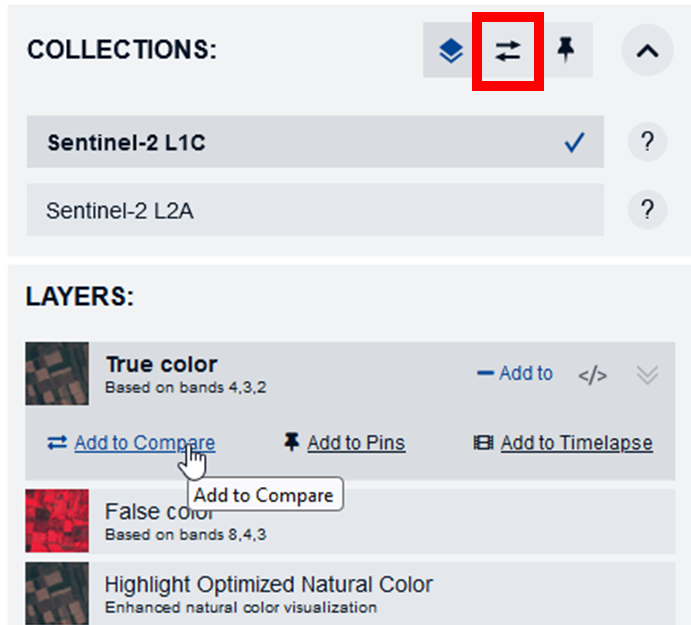
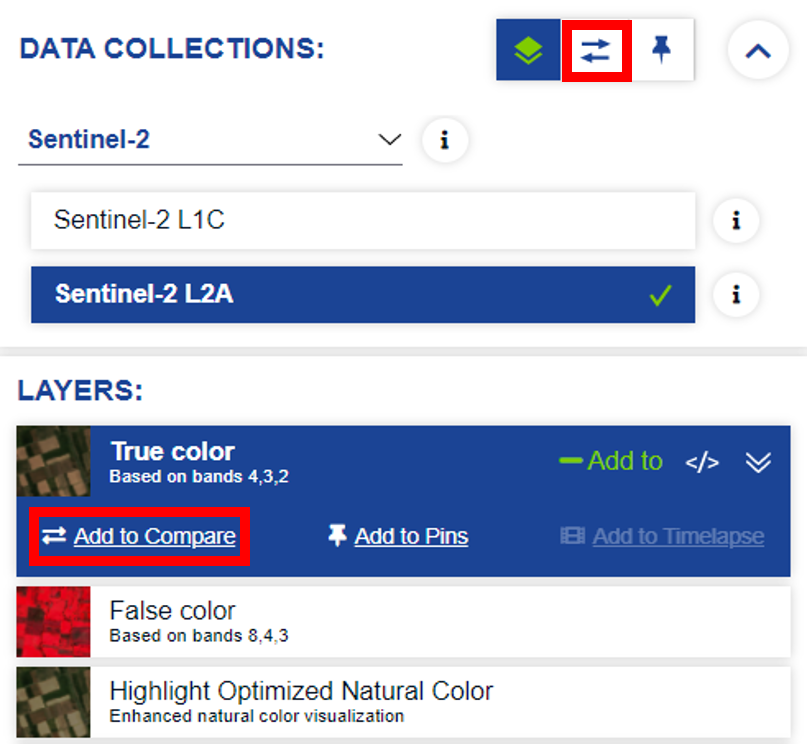
Updated the user guide and replaced screenshots

diff --git a/Applications/Browser.md b/Applications/Browser.md
@@ -49,13 +49,34 @@ Fig 3: *Custom* Layers option with *Composite Index and Custom* script highlight
 
 Here you can create a custom *R/G/B* composite or _Index_ (band ratio, normalized difference index) by dragging and dropping the Sentinel-2 bands into the appropriate circles or use the _Custom script_ functionality to insert a piece of JavaScript code.
 
+#### Changing the Data Collection
+
+You can switch visualizing between different data collections by clicking on the arrow next to the Data Collections section in the Visualization tab. Once you click on the arrow as seen in Fig. 4, you will be able to see a drop-down menu with a list of the satellite data that is available. Let us try to visualize Sentinel-3 data of the same location and date as that of the Sentinel-2 data in section 2.1.  
+1.	Click on the drop-down arrow on the right next to Pins icon. 
+2.	Click on the drop-down arrow next to Sentinel-2 and select Sentinel-3.
+3.	You can select the product you want to visualize. To visualize the Brightness temperature, select Sentinel-3 SLSTR L1B. You can see the predefined layers that can be visualized and click on the green button to Show latest date.
+
+At the moment, the Data Collections available for visualization are Sentinel-2 (L1C and L2A), Sentinel-3 (OLCI Level-1 EFT, SLSTR Level-1 RBT) and Sentinel-5P.
+
+<img src="../_images/DataCollection.png" width="450">
+
+Fig 4: Changing *Data Collection* from *Visualization* tab directly
+
 #### Comparing Visualizations
 
 To compare two (or more) visualizations you must add them to the compare panel. You can add a visualization to the compare panel by clicking on the *Add to compare* button in each visualization layer *(see Fig. 4)*. When you have added all the layers you want to compare to the compare panel, you can switch to it by clicking on the compare icon ( ![compare](../_images/icons/CompareIcon.png) ). In the compare panel you can choose between a *Split* and an *Opacity* mode. With the *Split* mode you can compare two images side by side. With the *Opacity* mode you can compare two (or more) visualizations on top of each other.
 
 <img src="../_images/AddIcon.png" width="350">
 
-Fig 4: *Add to compare* and compare icon
+Fig 5: *Add to compare* and compare icon
+
+#### Saving Pins
+
+To save a visualization for future viewing, you can save it as a pin by clicking on ( ![addto](../_images/icons/AddTo.png)) next to the Layer name and clicking on *Add to Pins*. You can find the saved pins by clicking on the ( ![pin](../_images/icons/PinIcon.png)) icon. If you wish to compare saved pins, you can add them to the compare panel as explained in section 2.1.2. If you have multiple pins saved and want to compare them altogether, you can directly go to the compare panel and add all the pins to compare by clicking on ( ![addallpins](../_images/icons/AddAllPins.png)). Another feature of the Browser is that you can export pins as a JSON file and import previously exported pins as well.
+
+<img src="../_images/AddPins.png" width="350">
+
+Fig 6: *Add to pins* and Pins icon
 
 ### Product Search for Current Visualization
 
@@ -64,18 +85,33 @@ When you are visualizing data (chapter Visualizing data), you can easily find th
 
 <img src="../_images/FindProduct.png" width="350">
 
-Fig 5: *Add to compare* and compare icon
+Fig 7: *Find products for current view* button position in the sidebar.
 
+### 3D Visualization
+
+With the 3D visualization tool, users can also visualize the terrain. To obtain a 3D visualization, you need to first select a layer to view and then click on the ![3d](../_images/icons/3D.png) icon. You can move forward, backward, left, or right by right clicking on the pan console (labelled 1 in the red box in Fig. 8) and rotate around a point by right clicking on the camera console (labelled 2 in the red box in Fig. 8). The viewing angle can be adjusted by scaling vertically and panning in all directions. You can further explore the area by adjusting the sun projected shadows and the shading parameters of the scene in the settings (labelled as box 3 and 4 respectively in Fig. 8). This 3D view can also be downloaded as a PNG or JPEG file.
+Let us try visualizing Mont Blanc, the highest peak in the Alps.
+1.	Follow the steps mentioned in section 2.1 to visualize Mont Blanc and select the “True Color” visualization.
+2.	Click on the ![3d](../_images/icons/3D.png) icon placed at the right of the screen.
+3.	You can navigate around the visualization either with your mouse, keyboard or directly on the map by following the instructions mentioned in the “Help” section (click on the ( ![info3d](../_images/icons/Info3D.png)) icon).
+4.  Click on the Settings icon ( ![settings](../_images/icons/Settings.png)). Set the Vertical terrain scaling to 150% by moving the slider. 
+5.	To adjust shadows, click on the Parameters next to Sun projected shadows toggle switch. 
+6.	To adjust Shading parameters, click on Edit and modify the Ambient factor, Diffuse factor, Specular factor, and Specular power.
+7.	You can Reset values at any point to return to the default settings. 
+
+<img src="../_images/3DViz.png" width="1024">
+
+Fig 8: 3D visualization in the Browser with pop-up Settings windows on the right
 
 ## Product Search
 
 With the product search you can find products from four Sentinel missions (Sentinel-1, Sentinel-2, Sentinel-3, Sentinel-5p) and the sensors on board these satellites (C-SAR, MSI, OLCI, SRAL, SLSTR, SYNERGY). You can explore the metadata for each of those products, download the raw data or visualize the data on the map (currently only Sentinel-2 L1C and L2A are supported, but more data sources will be supported here in the future).
 
-The *SEARCH* tab is located in the sidebar next to the *VISUALIZE* tab (see Fig. 6).
+The *SEARCH* tab is located in the sidebar next to the *VISUALIZE* tab (see Fig. 9).
 
 <img src="../_images/SearchTab.png" width="350">
 
-Fig 6: *SEARCH* tab with different *Data Sources, Time range and Search* button
+Fig 9: *SEARCH* tab with different *Data Sources, Time range and Search* button
 
 
 ### How to find a Product
@@ -85,17 +121,36 @@ To find products you can either use the keyword search (text input) or select on
    1. Zoom in on Italy on the map with the scroll wheel of your mouse.
    2. Select Sentinel-2 \> MSI (selected by default) \> L2A.
    3. Set the Time Range to reflect two weeks (e.g., 2023-01-02, 2023-01-16)
+   4. Press the _Search_ button
 
 <img src="../_images/SearchResult.png" width="1024">
 
-Fig. 7: *SEARCH* tab with L2A collection selected and map centred on Rome (Italy)
-
-   4. Press the _Search_ button
+Fig 10: *SEARCH* tab with L2A collection selected and map centred on Rome (Italy)
 
 You will now see the first 50 search results for your search settings (Sentinel L2A data over Italy for a time range of 2 weeks) in the sidebar and on the map. To load the next 50 results, click on the _Load more_ button at the end of the list in the sidebar. You can view the metadata of a product in the sidebar or by selecting a product on the map. In both cases you can:
 
 * Directly view the basic metadata (preview image (available for most Sentinel-2 L1C, L2A, Sentinel-3 SLSTR and Sentinel-3 OLCI products), name, mission, instrument, acquisition time)
 * View the full metadata by clicking on the product info button ( ![Info](../_images/icons/InfoIcon.png)) in the results (full metadata)
+
+#### Additional Filters
+
+To get more suitable results, you can also select or choose additional filters as shown in Figure 11. 
+1.	Select the Data Source and the appropriate instrument/ processing level.
+2.	Click on the Filter button and set the filtering parameters.
+3.	Press the Search button. 
+Here, you can choose various parameters depending on the chosen Data Source. For example, you can see the filter parameters for Sentinel-1 in Figure 11, letting you filter the results based on satellite platform, orbit direction, relative orbit number, acquisition mode, Beam ID and polarization.
+
+<img src="../_images/Filters.png" width="450">
+
+Fig 11: Data filters and parameters
+
+#### Visualize the search result
+
+Once you find the tiles you need following the above steps, you can visualize this one in of the two ways: by clicking on the region of interest and looking at the tiles that cover the region or select the tile from the Search panel on the left. Below the preview of the tile, there is a button to visualize ( ![visualize](../_images/icons/VisualizeButton.png) ), which will take you to the Visualize tab.
+
+<img src="../_images/VisualizeTile.png" width="1024">
+
+Fig 12: Tile selection and visualization
 
 ### How to download a Product
 
@@ -105,7 +160,7 @@ You can continue to use the app as normal while a product is being downloaded.
 
 <img src="../_images/ProductDownload.png" width="450">
 
-Fig. 8: Product download (in progress) with Download product and cancel button highlighted
+Fig 13: Product download (in progress) with Download product and cancel button highlighted
 
 ## Tools
 
@@ -142,13 +197,27 @@ There are three different download options. You can switch between the options u
 
 ### Timelapse
 
-- You can create a **Timelapse Animation** by clicking the ![lapse](../_images/icons/TimeLapse.png) icon.
-- Select the Area of Interest by zooming in or out. When you are satisfied with the scene, click on the play button in the middle of the screen for more options.
-- Select the time span in the upper left corner of the pop-up window. Alternatively, you can select only certain months in a year using the *filter by months* option. You can also select the interval between images. Click on *Search* to see all the results.
-- You can filter the images by two methods: Minimum tile coverage and Maximum Cloud coverage. You can select the percentage of cover for each of those filters by adjusting the slider.
-- You can either select all the images or choose the images manually. Once you have the list of images you want to display in the timelapse, select the speed, and transition to prepare your timelapse.
-- Download the video by clicking on the *Download* button.
+**Timelapses** are a very popular and useful tool to show how a certain location on Earth changed through time. Using the timelapse tool you can create your own visualization of changes through time and export it as .GIF or .MPEG4 to share it with others online. 
+Let’s create a timelapse of the deforestation in the Brazil from 2018 – 2022.
+1.	Go to: https://sentinelshare.page.link/osH4 
+2.	Click on the timelapse icon ( ![lapse](../_images/icons/TimeLapse.png) ) and click on the play button in the middle of the screen. This opens a pop-up window to create a timelapse.
+3.	Change the settings on the left side to:
+  a.	Dates 2018-01-01 – 2022-12-31
+  b.	Select 1 image per: month
+Alternatively, you can select only certain months in a year using the filter by months option. Click on Search to see all the results.
+4.	In the Visualizations set the Min. tile coverage to 100% and the Max. cloud coverage to 2% and manually deselect the images from the 2022-05-30 (slightly cloudy) and the 2022-09-07 (blurry).
+5.	Once you have the list of images you want to display in the timelapse, select the speed, and transition to prepare your timelapse.
+6.	Click on the play button to check the result and download the animation as a GIF-file using the Download button for further use online/offline.
+
+<img src="../_images/Timelapse.png" width="1024">
+
+Fig 10: Browser timelapse tool with settings highlighted
+
 
 #### Histogram
 
 With the **Histogram** tool you can display statistical data (the distribution of values) for specific layers by clicking on the ![histogram](../_images/icons/HistIcon.png) icon. The histogram is calculated for the data within your AOI, if defined or otherwise for the whole screen. This tool currently only works for index layers (e.g., the NDVI).
+
+<img src="../_images/Timelapse.png" width="450">
+
+Fig. 10: Example of a distribution plot of NDVI values
